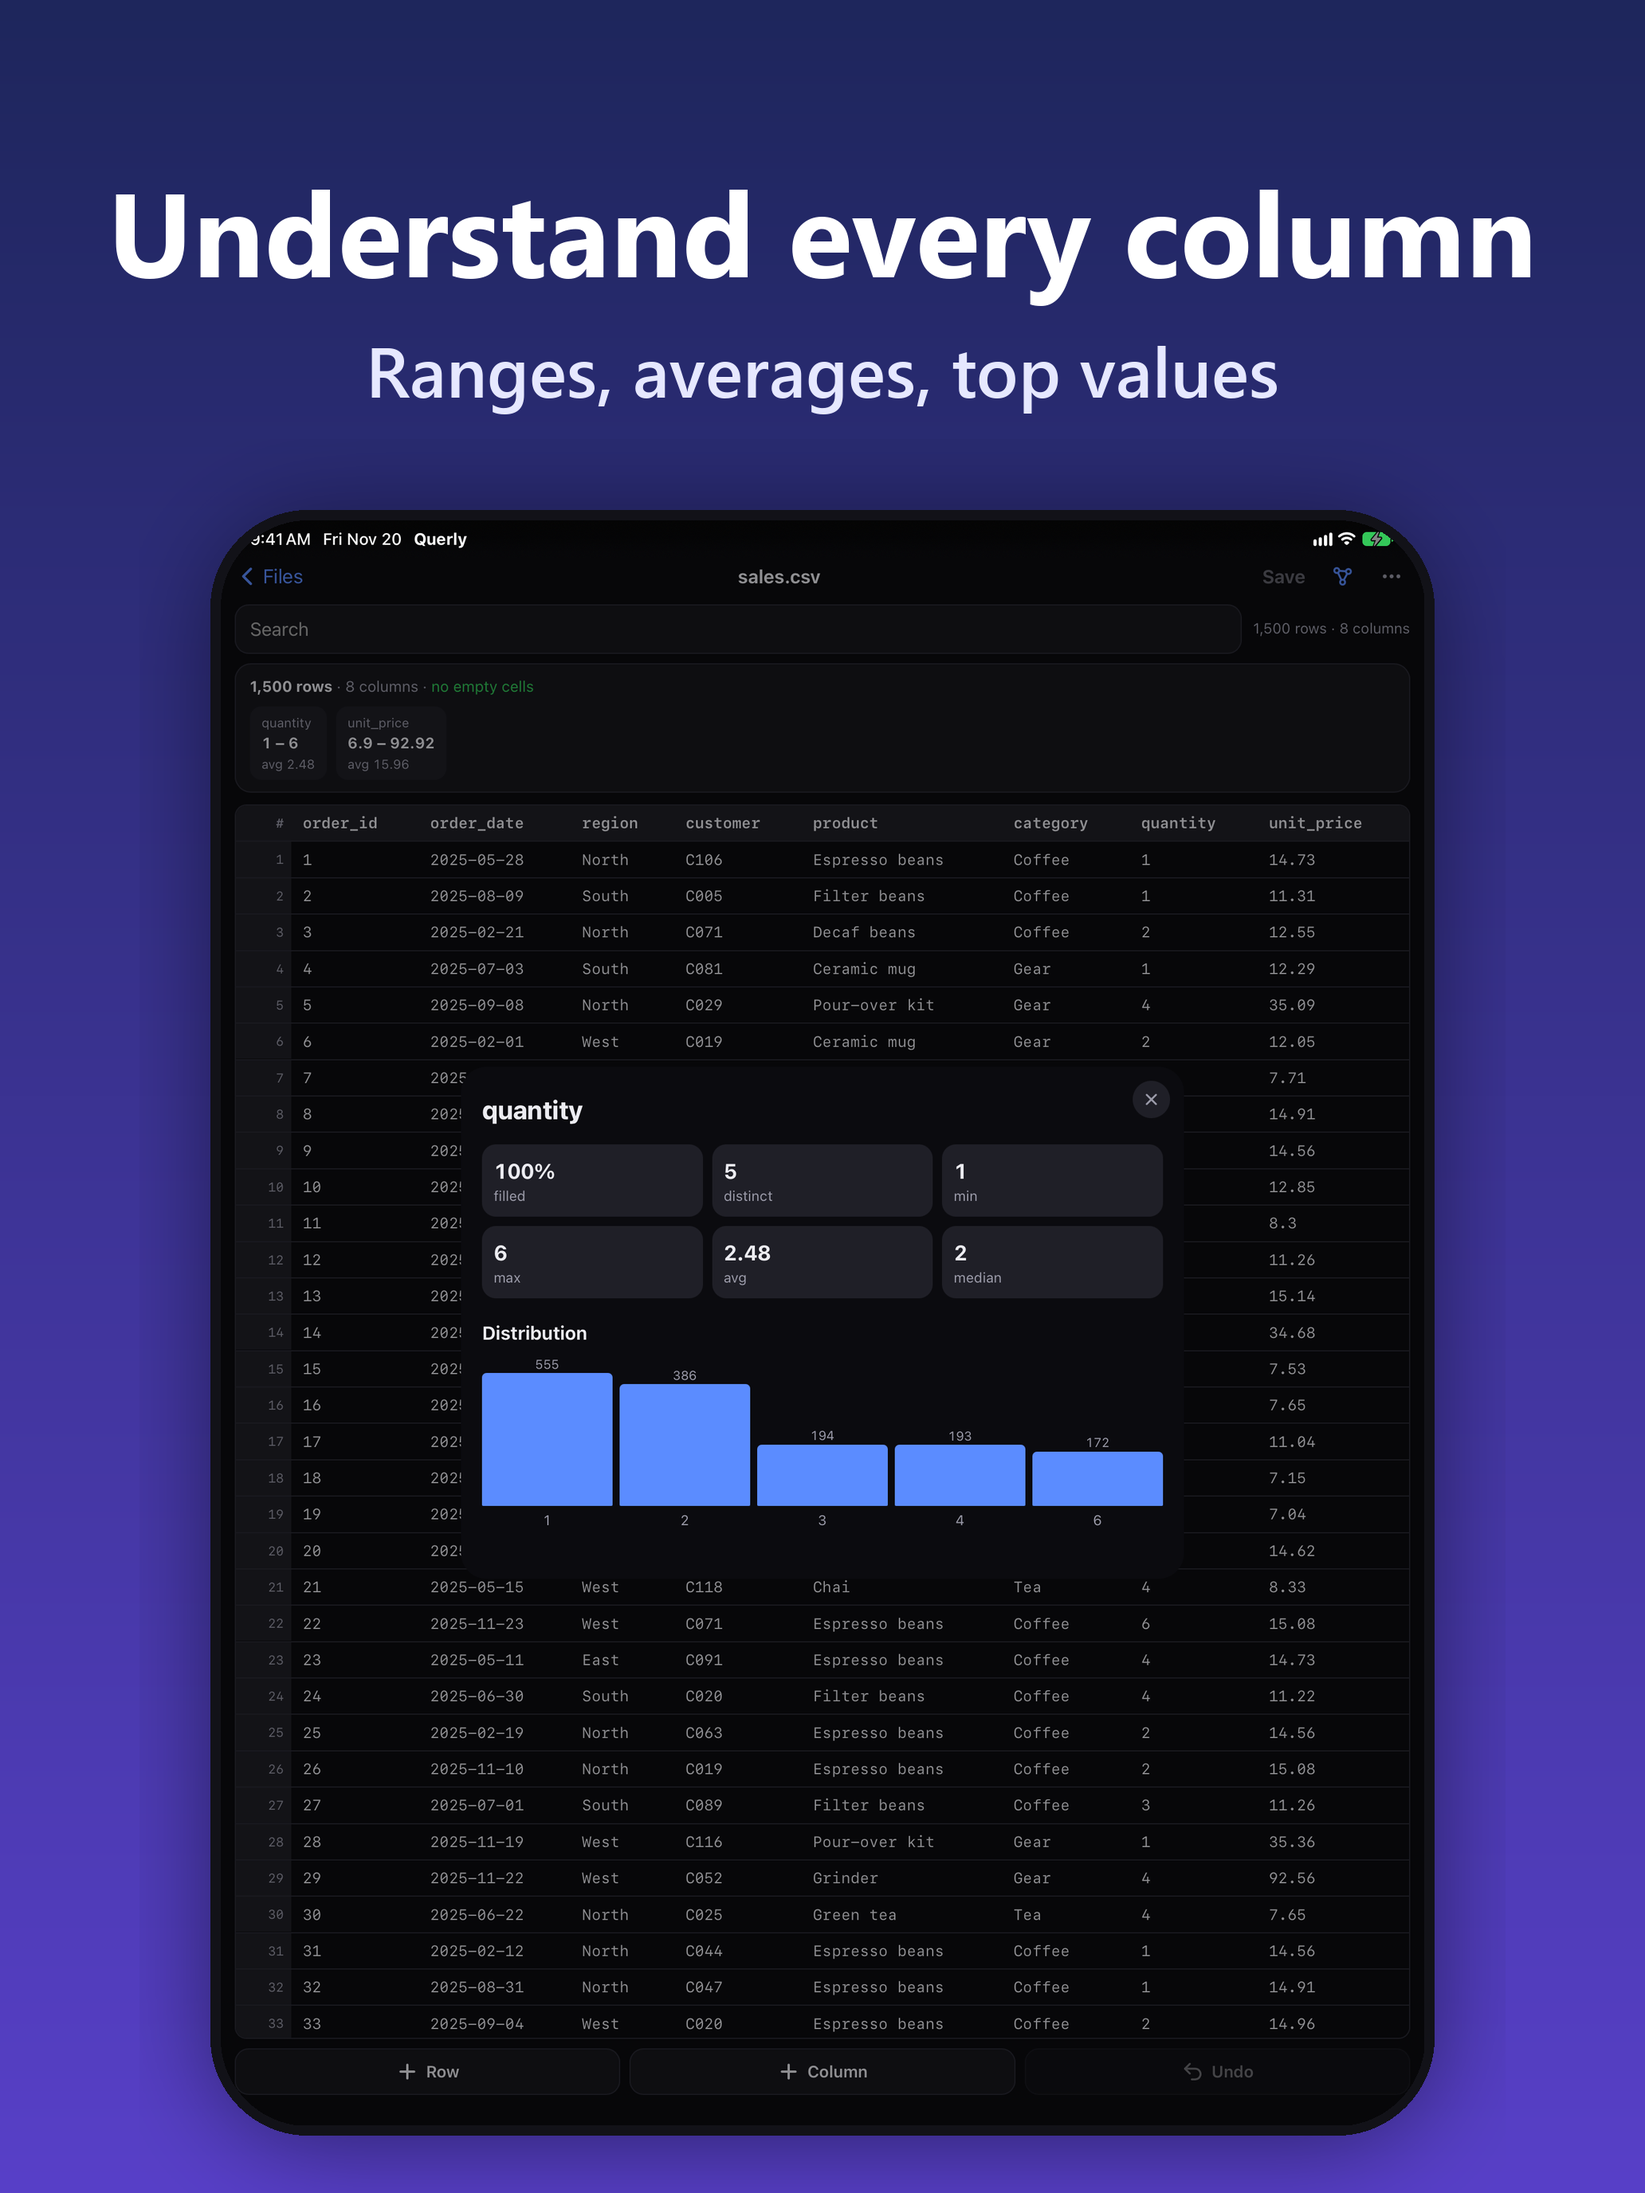
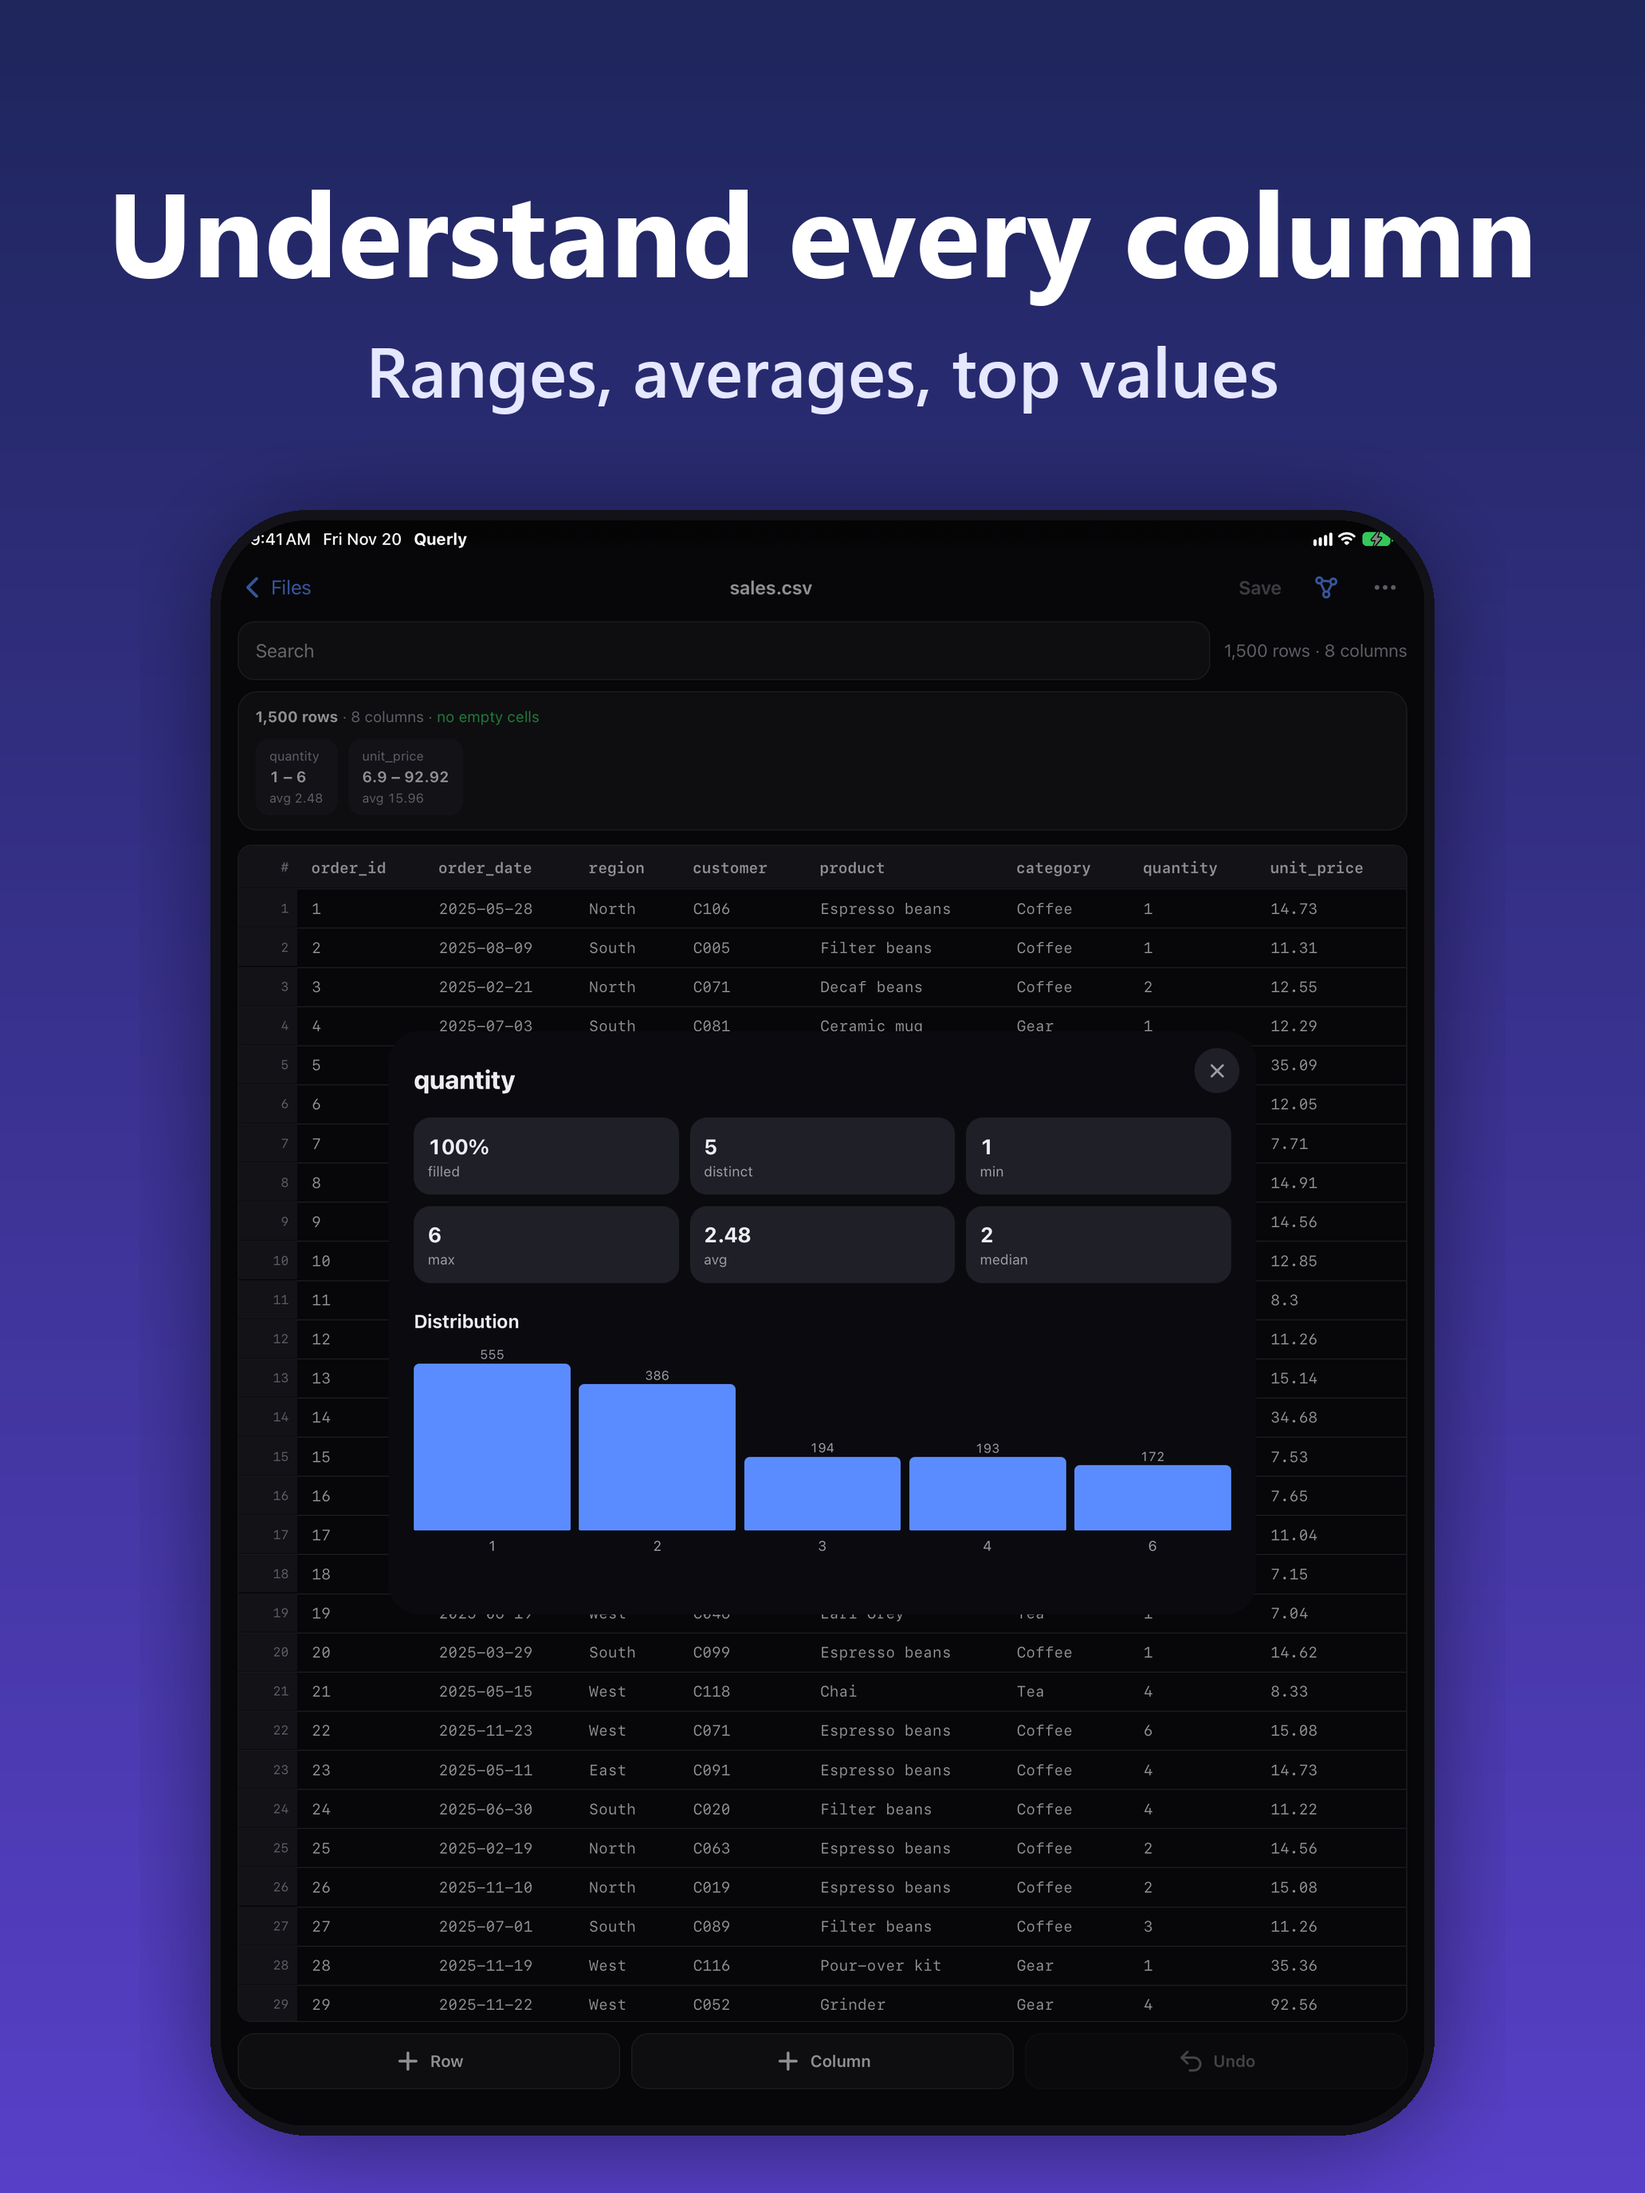
Screenshots for iPhone, iPad 13", iPhone Duo outer and inner displays [skip ci]

diff --git a/scripts/compose-screens.py b/scripts/compose-screens.py
@@ -40,7 +40,7 @@ def compose(raw: Path, title: str, sub: str, out: Path, dark: bool):
     """Same size as the raw screenshot (iPhone, iPad or iPhone Duo); type and margins scale with the width."""
     shot = Image.open(raw).convert('RGB')
     w, h = shot.size
-    k = w / 1206
+    k = min(w, h) / 1206 * (1 if h >= w else 0.8)  # landscape (iPhone Duo inner display): scale by height
     bg = gradient((30, 38, 92), (88, 64, 200), w, h) if dark else gradient((92, 132, 255), (120, 96, 245), w, h)
     canvas = bg.convert('RGBA')
     d = ImageDraw.Draw(canvas)
